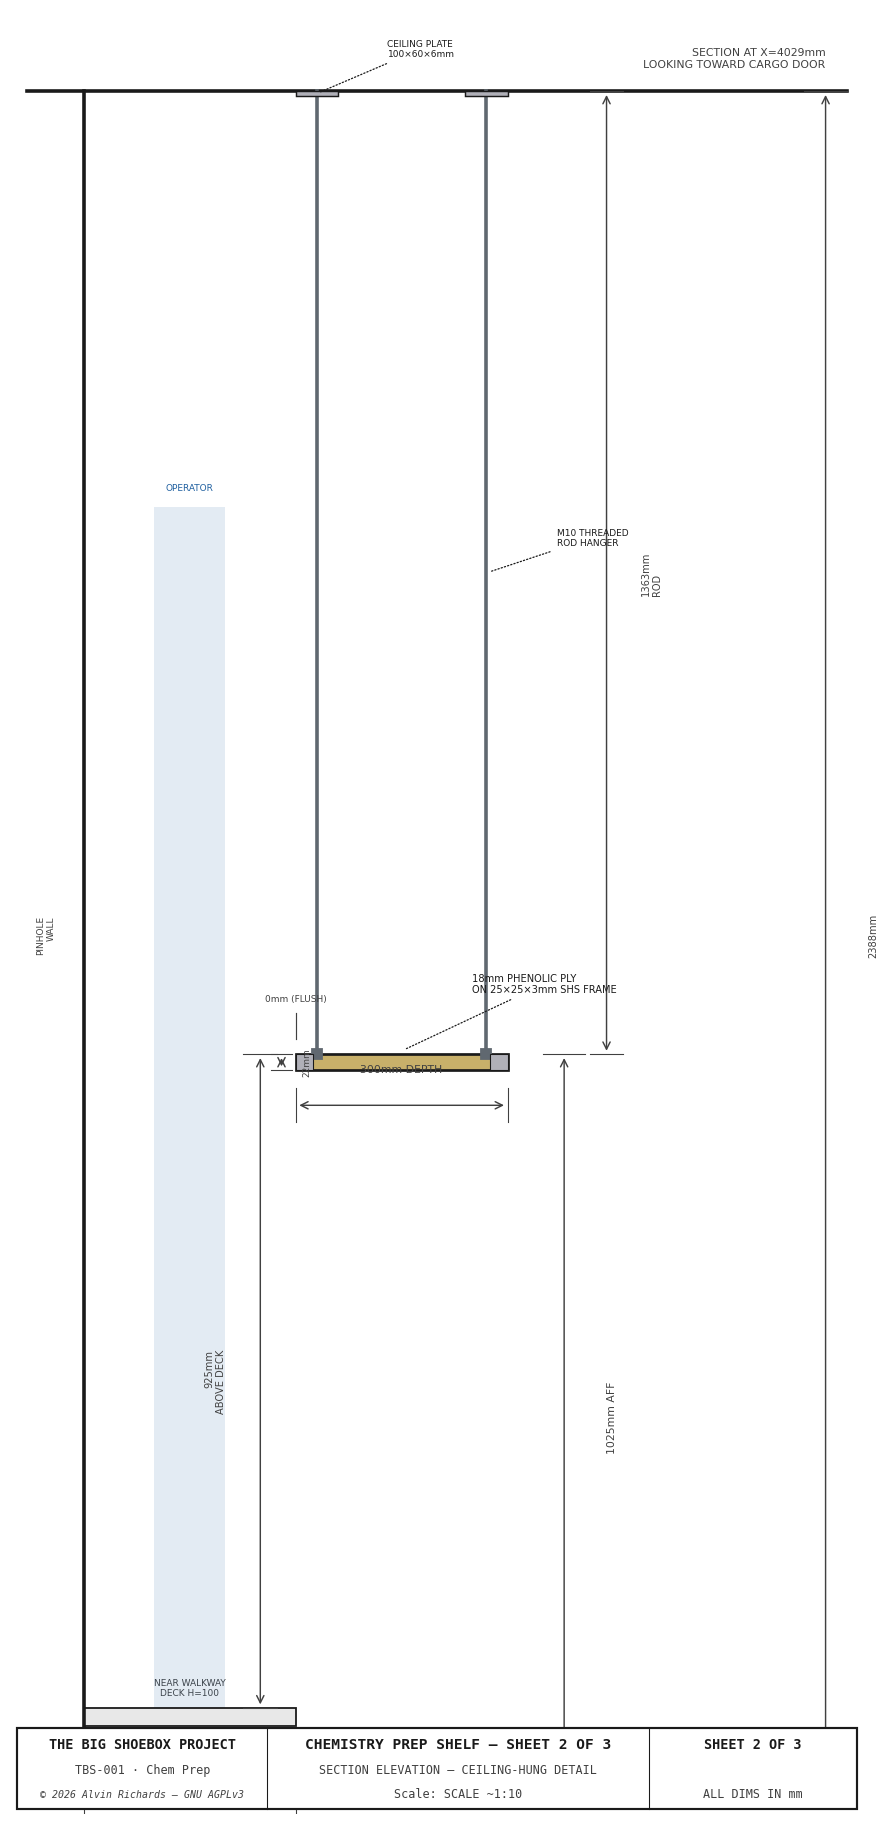
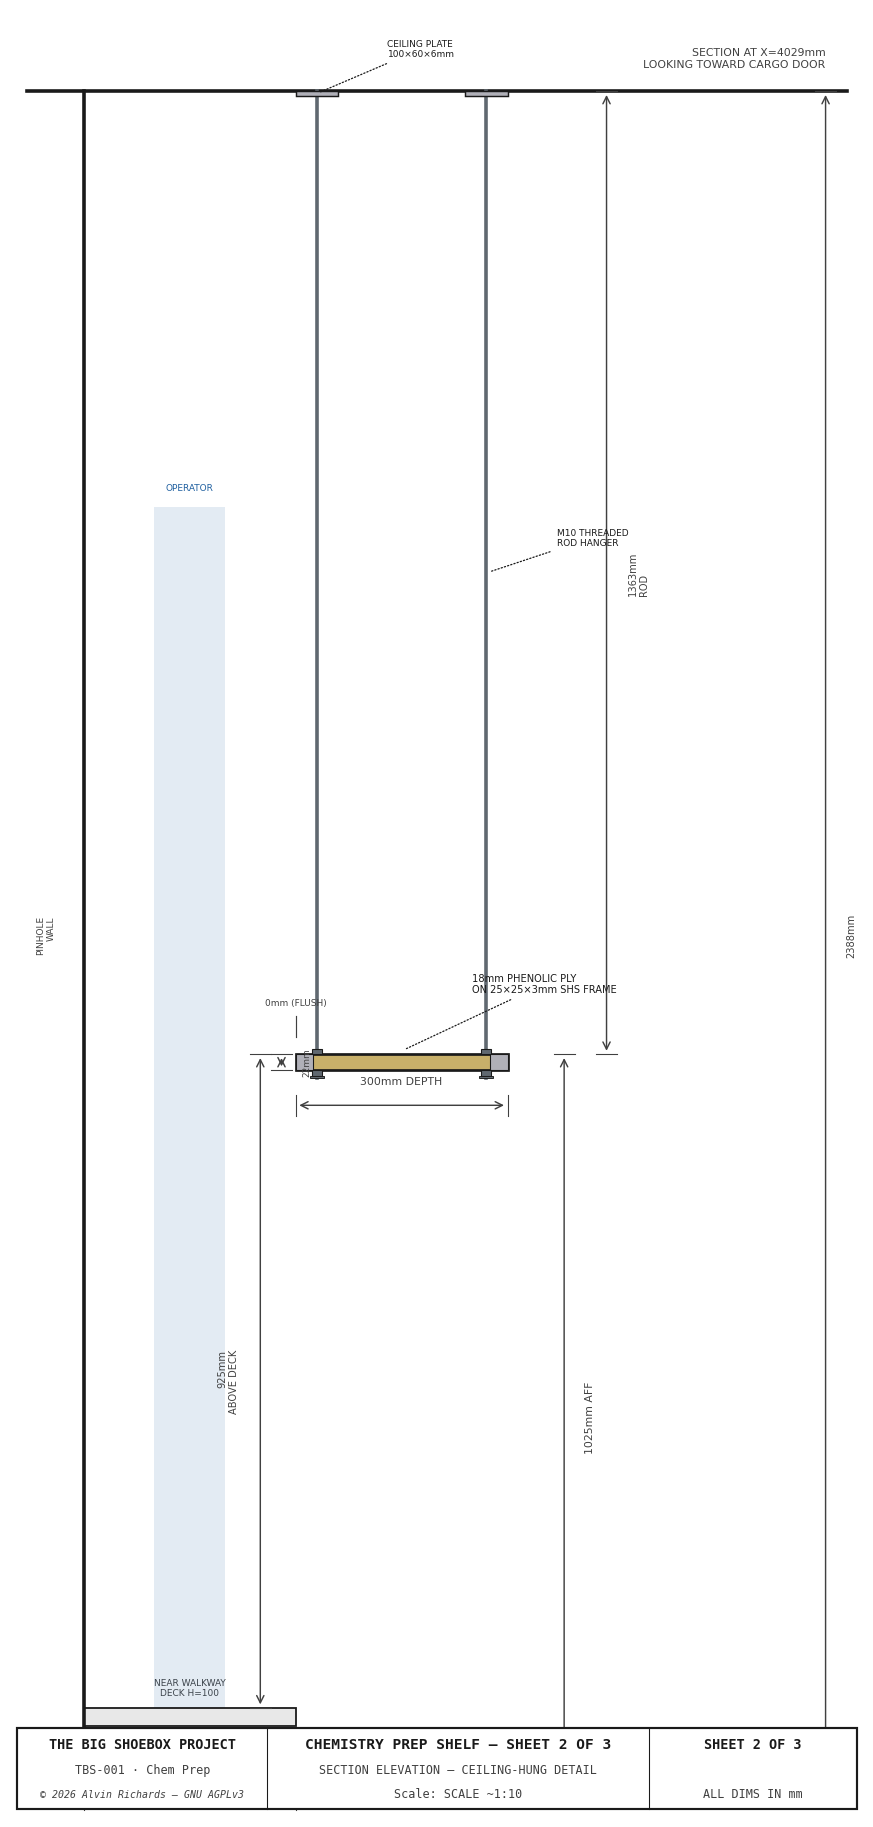
Add nut and washer detail to sheet 2 hanger connections matching sheet 3

diff --git a/generate_shelf_diagram.py b/generate_shelf_diagram.py
@@ -306,9 +306,14 @@ def sheet2():
             fontsize=5, color=C_DIM, ha="center", va="bottom")
 
     # ── Ceiling hanger rods (4, but in this section view we see 2 — near and far) ──
+    nut_h_s2 = 8   # nut height in mm (visual, at 1:10 scale)
+    washer_w_s2 = 20  # washer width in mm
+    nut_w_s2 = 14     # nut width in mm
+    shelf_z_top_s2 = SHELF_H
+    shelf_z_bot_s2 = SHELF_H - SHELF_T
     for yd in [SHELF_YD_NEAR + HANGER_INSET, SHELF_YD_FAR - HANGER_INSET]:
-        # Rod from ceiling down to shelf
-        ax.plot([px(yd), px(yd)], [pz(C_HGT), pz(SHELF_H)],
+        # Rod from ceiling down past shelf bottom (extends to lower nut)
+        ax.plot([px(yd), px(yd)], [pz(C_HGT), pz(shelf_z_bot_s2 - nut_h_s2 - 4)],
                 color=C_HANGER, lw=2.0, zorder=6)
         # Ceiling plate
         plate_w = 60
@@ -316,8 +321,21 @@ def sheet2():
                                 px(yd + plate_w / 2) - px(yd - plate_w / 2),
                                 pz(C_HGT) - pz(C_HGT - 6),
                                 fc=C_FRAME, ec=C_OUT, lw=0.8, zorder=7))
-        # Nut at shelf level
-        ax.plot(px(yd), pz(SHELF_H), "s", color=C_HANGER, ms=5, zorder=8)
+        # Top lock nut (above shelf surface)
+        ax.add_patch(Rectangle((px(yd - nut_w_s2 / 2), pz(shelf_z_top_s2)),
+                                px(yd + nut_w_s2 / 2) - px(yd - nut_w_s2 / 2),
+                                pz(shelf_z_top_s2 + nut_h_s2) - pz(shelf_z_top_s2),
+                                fc=C_HANGER, ec=C_OUT, lw=0.6, zorder=9))
+        # Bottom nut (below shelf frame)
+        ax.add_patch(Rectangle((px(yd - nut_w_s2 / 2), pz(shelf_z_bot_s2 - nut_h_s2)),
+                                px(yd + nut_w_s2 / 2) - px(yd - nut_w_s2 / 2),
+                                pz(shelf_z_bot_s2) - pz(shelf_z_bot_s2 - nut_h_s2),
+                                fc=C_HANGER, ec=C_OUT, lw=0.6, zorder=9))
+        # Bottom washer
+        ax.add_patch(Rectangle((px(yd - washer_w_s2 / 2), pz(shelf_z_bot_s2 - nut_h_s2 - 3)),
+                                px(yd + washer_w_s2 / 2) - px(yd - washer_w_s2 / 2),
+                                pz(shelf_z_bot_s2 - nut_h_s2) - pz(shelf_z_bot_s2 - nut_h_s2 - 3),
+                                fc=C_HANGER, ec=C_OUT, lw=0.5, zorder=9))
 
     # ── Shelf platform ──
     shelf_z_top = SHELF_H
@@ -352,28 +370,28 @@ def sheet2():
     # ── Dimensions ──
     # Shelf height above floor
     draw_dim_v(ax, px(SHELF_YD_FAR + 80), pz(0), pz(SHELF_H),
-               f"{SHELF_H}mm AFF", offset=10, fs=6, right=True)
+               f"{SHELF_H}mm AFF", offset=5, fs=6, right=True)
     # Shelf height above walkway deck
     draw_dim_v(ax, px(SHELF_YD_NEAR - 50), pz(WALKWAY_H), pz(SHELF_H),
-               f"{SHELF_H - WALKWAY_H}mm\nABOVE DECK", offset=8, fs=5.5)
+               f"{SHELF_H - WALKWAY_H}mm\nABOVE DECK", offset=5, fs=5.5)
     # Hanger rod length
     draw_dim_v(ax, px(SHELF_YD_FAR + 140), pz(SHELF_H), pz(C_HGT),
-               f"{int(HANGER_ROD_L)}mm\nROD", offset=8, fs=5.5, right=True)
+               f"{int(HANGER_ROD_L)}mm\nROD", offset=5, fs=5.5, right=True)
     # Shelf depth (Yd)
     draw_dim_h(ax, px(SHELF_YD_NEAR), px(SHELF_YD_FAR), pz(shelf_z_bot - 50),
-               f"{SHELF_DEPTH}mm DEPTH", offset=8, fs=6)
+               f"{SHELF_DEPTH}mm DEPTH", offset=5, fs=6)
     # Walkway width
     draw_dim_h(ax, px(0), px(WALKWAY_W), pz(-30),
-               "300mm WALKWAY", offset=6, fs=5.5)
+               "300mm WALKWAY", offset=5, fs=5.5)
     # Gap between walkway edge and shelf
     draw_dim_h(ax, px(WALKWAY_W), px(SHELF_YD_NEAR), pz(SHELF_H + 40),
-               "0mm (FLUSH)", offset=6, fs=5)
+               "0mm (FLUSH)", offset=5, fs=5)
     # Shelf thickness
     draw_dim_v(ax, px(SHELF_YD_NEAR - 20), pz(shelf_z_bot), pz(shelf_z_top),
                "22mm", offset=5, fs=5, right=True)
     # Container height
     draw_dim_v(ax, px(YD_HI - 50), pz(0), pz(C_HGT),
-               f"{C_HGT}mm", offset=10, fs=5.5, right=True)
+               f"{C_HGT}mm", offset=5, fs=5.5, right=True)
 
     # ── Leader callouts ──
     leader(ax, px(SHELF_CY), pz(shelf_z_top + 5),
